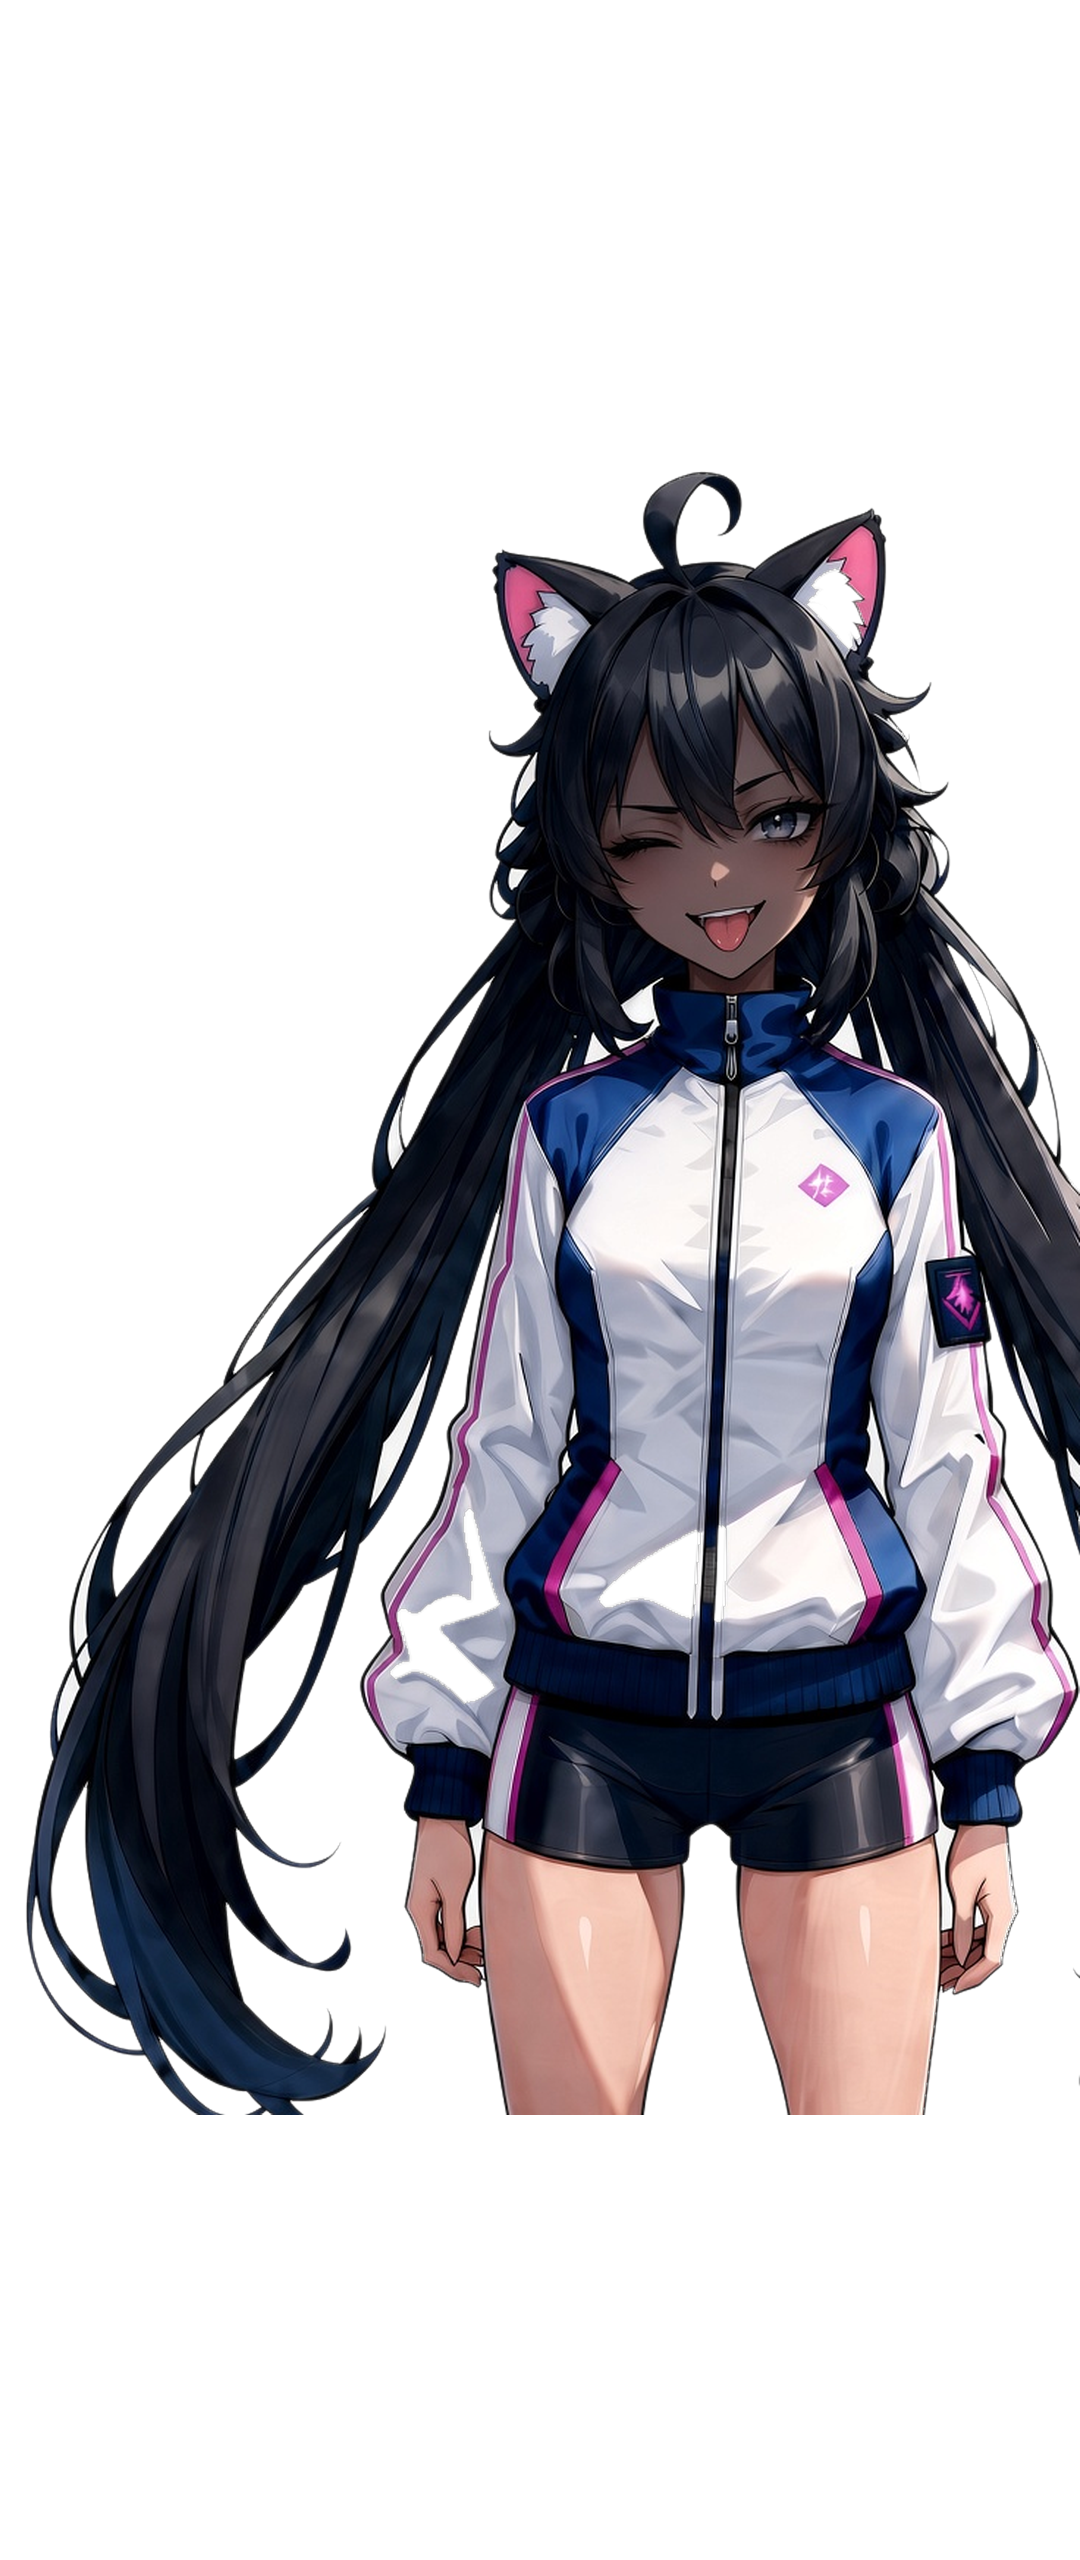
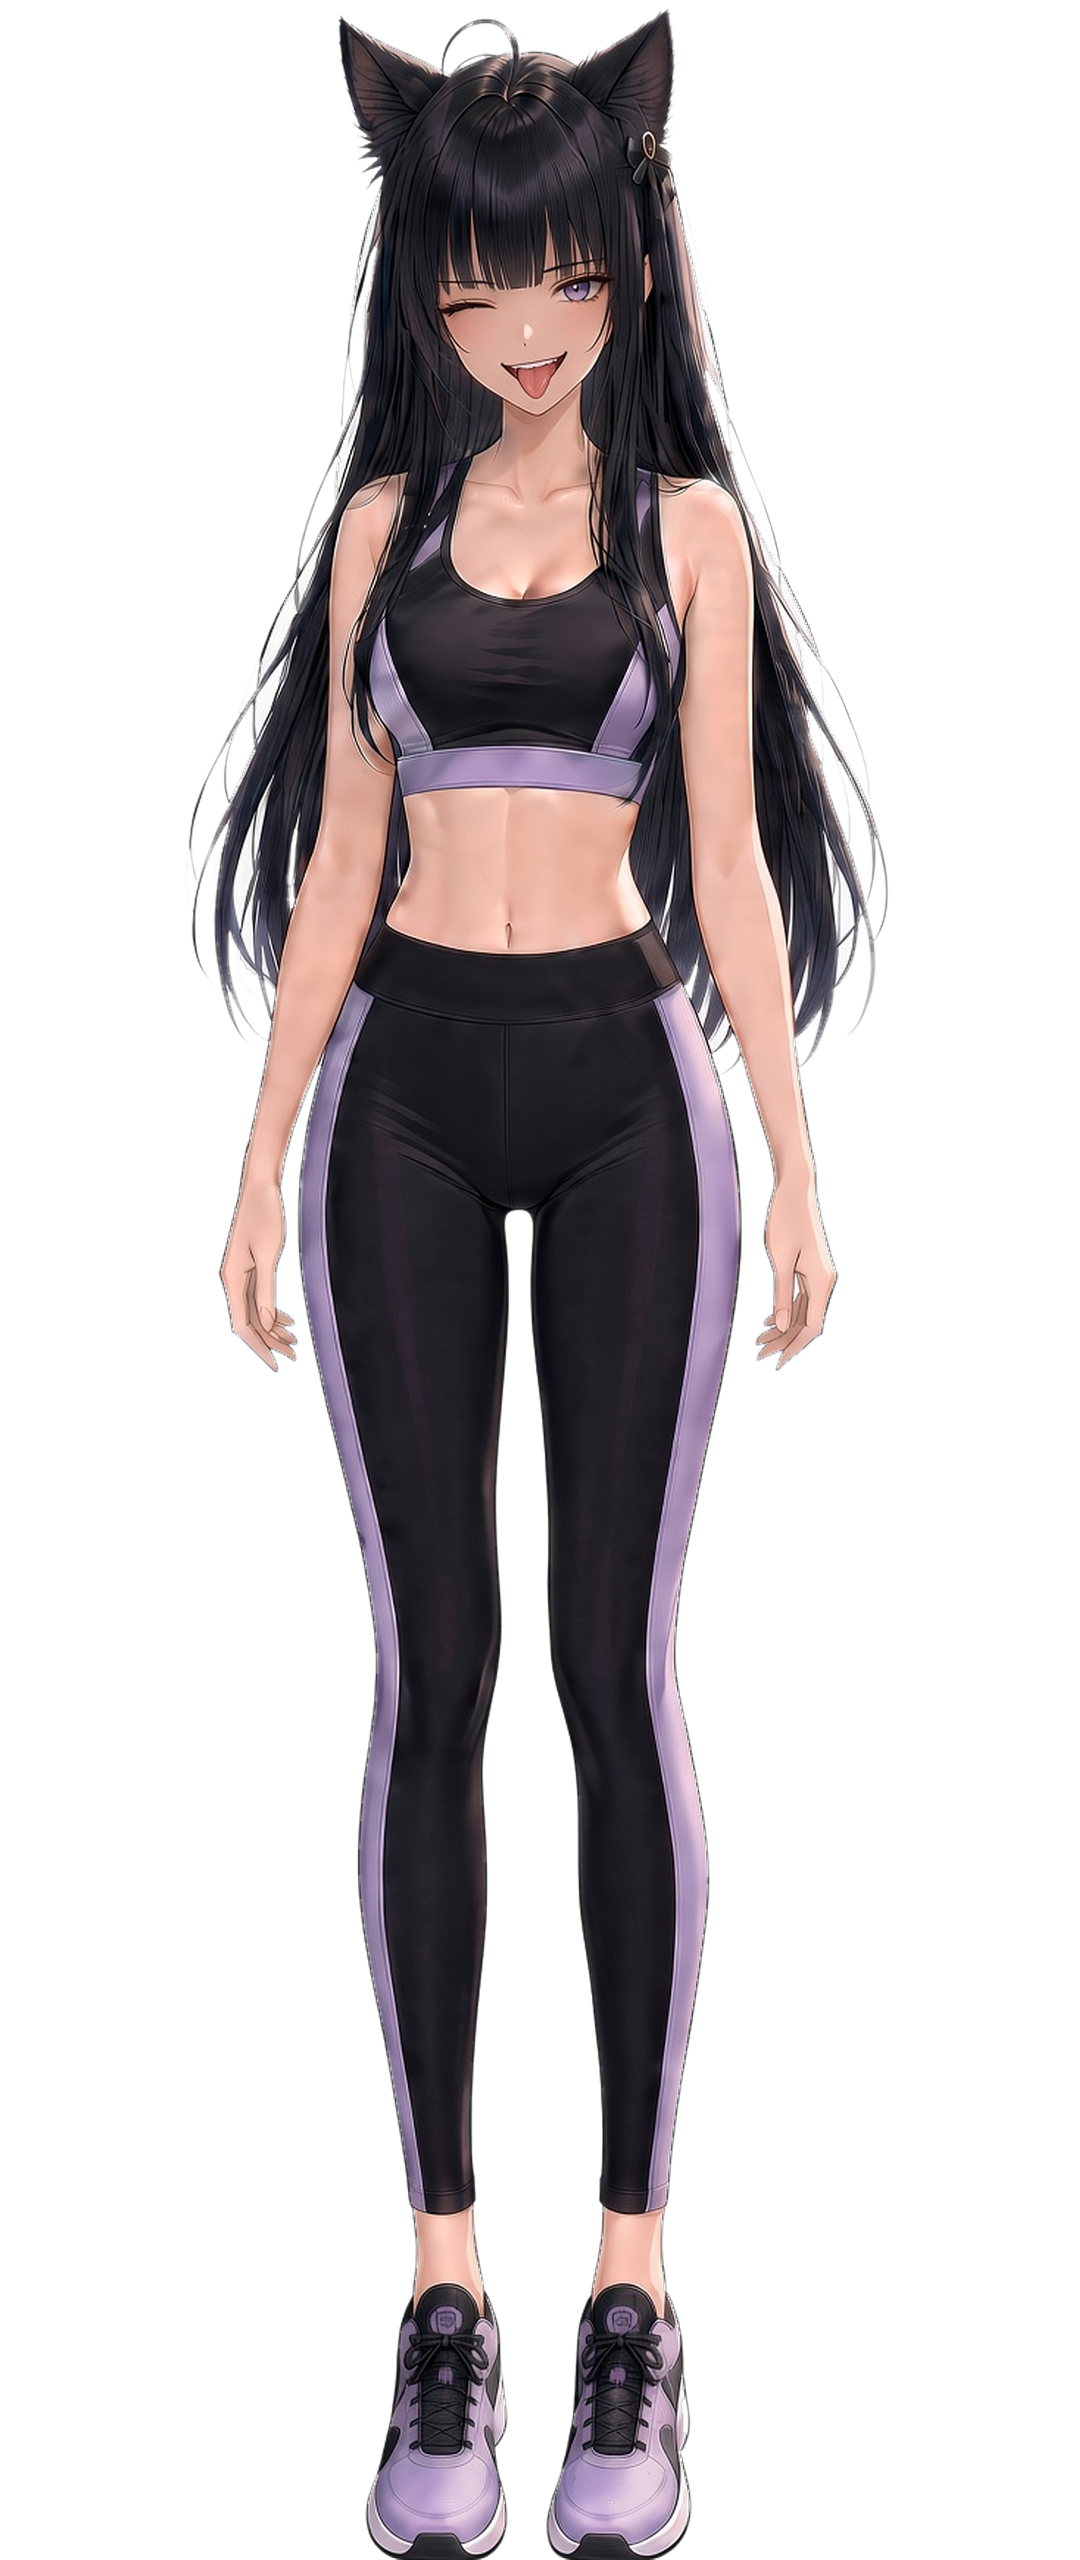
v4.3.12: VN large standing scale, gemini full redesign + menhera outfit SCG/ECG, routine tab header fix

diff --git a/kotonoha_engine.js b/kotonoha_engine.js
@@ -1343,16 +1343,16 @@ function renderKotonohaView() {
         <!-- Full Illustration Cinematic Stage: Click anywhere to advance -->
         <div class="relative w-full min-h-[500px] sm:min-h-[560px] flex flex-col justify-between bg-[#0e0a0c] cursor-pointer overflow-hidden" onclick="stepKotonohaStory(1)">
           
-          <!-- Visual Presentation: True Transparent SCG + BG vs Clean Full ECG -->
-          <div class="relative w-full h-72 sm:h-84 overflow-hidden bg-[#0c080a] flex items-center justify-center">
+          <!-- Visual Presentation: True Transparent SCG (Commercial VN large standing) vs Clean Full ECG -->
+          <div class="relative w-full h-[340px] sm:h-[400px] overflow-hidden bg-[#0c080a] flex items-end justify-center">
             ${visuals.isScg ? `
               <!-- [TRUE SCG + BG MODE] Pure Background Layer (No Characters) -->
               <img src="${visuals.bgUrl}" onerror="this.style.display='none'" class="absolute inset-0 w-full h-full object-cover filter brightness-[0.85] contrast-[1.02] pointer-events-none transition-all duration-500">
               <div class="absolute inset-0 bg-gradient-to-t from-[#141013] via-transparent to-black/25 pointer-events-none"></div>
 
-              <!-- Pure Standing Character Sprite (Alpha Transparent PNG) with Cross-fade transition -->
-              <div class="relative z-10 h-full flex items-end justify-center pointer-events-none">
-                <img src="${visuals.scgUrl}" onerror="this.onerror=null;this.src='${visuals.ecgFallback}'" class="max-h-[96%] max-w-[85%] object-contain object-bottom drop-shadow-[0_12px_28px_rgba(0,0,0,0.85)] transition-all duration-200">
+              <!-- Pure Standing Character Sprite (Alpha Transparent PNG) — scaled to ~135% for commercial VN presence -->
+              <div class="relative z-10 h-full flex items-end justify-center pointer-events-none w-full">
+                <img src="${visuals.scgUrl}" onerror="this.onerror=null;this.src='${visuals.ecgFallback}'" class="relative h-[135%] w-auto max-w-none object-contain object-bottom drop-shadow-[0_12px_28px_rgba(0,0,0,0.85)] transition-all duration-200">
               </div>
             ` : `
               <!-- [CLEAN FULL ECG MODE] Cinematic Ambient Blur + Center Illustration (Never Cut Off) -->

diff --git a/index.html b/index.html
@@ -737,10 +737,10 @@
       <!-- 5. 🏋 헬스장 풀코스 체크 (상체2 + 하체1 + 캡틴스 체어 레그레이즈 + 크런치) -->
       <!-- 4. Gym Full-Course Routine (보통 20회 x 4세트 / 레그레이즈 50회 1세트 / 크런치 50회 2세트) -->
       <div class="game-card p-3.5 space-y-3 border-l-4 border-l-sky-500">
-        <div class="flex items-center justify-between pb-2 border-b border-slate-200/80 dark:border-slate-700/60">
-          <div class="flex items-center gap-1.5">
-            <span class="text-base">🏋</span>
-            <div>
+        <div class="flex flex-wrap items-start justify-between gap-x-2 gap-y-2 pb-2 border-b border-slate-200/80 dark:border-slate-700/60">
+          <div class="flex items-center gap-1.5 min-w-[170px] flex-1">
+            <span class="text-base shrink-0">🏋</span>
+            <div class="min-w-0">
               <span class="text-xs font-black text-slate-800 dark:text-slate-100">헬스장 루틴 & 세트 기록</span>
               <span class="text-[9px] text-sky-500 font-bold block">기본 20회×4세트 · 레그레이즈 50회×1세트 · 크런치 50회×2세트</span>
             </div>
@@ -8123,7 +8123,7 @@ ${err.message}
 
       <div class="p-2.5 rounded-xl bg-[#22181d] border border-[#3b272f] text-[11px] text-[#e0cfca] space-y-1">
         <div class="flex items-center justify-between font-bold text-[#f29aa8]">
-          <span>현재 앱 버전: v4.3.11 (言の葉茶屋)</span>
+          <span>현재 앱 버전: v4.3.12 (言の葉茶屋)</span>
           <span id="updateReminderDayBadge" class="text-[10px] text-[#b89d97]">매주 수요일</span>
         </div>
         <div class="text-[10px] text-[#9e847e]">아래 버튼을 눌러 요청문을 복사한 뒤, 안티그라에 바로 붙여넣기 하시면 즉시 업데이트가 진행됩니다.</div>

diff --git a/sw.js b/sw.js
@@ -1,5 +1,5 @@
-// Gemini Fit Progressive Web App (PWA) Service Worker v4.3.11
-const CACHE_NAME = 'geminifit-pwa-v4.3.11';
+// Gemini Fit Progressive Web App (PWA) Service Worker v4.3.12
+const CACHE_NAME = 'geminifit-pwa-v4.3.12';
 
 self.addEventListener('install', (e) => {
   self.skipWaiting();

diff --git a/generate_assets_v4311.py b/generate_assets_v4311.py
@@ -43,12 +43,25 @@ STYLE = ("anime visual novel gal-game art style, soft painterly shading, "
 
 CHARACTERS = {
     "gemini": {
-        "desc": ("a beautiful young woman with long black hair and cute cat ears, "
-                 "calm dignified Kyoto tea-house master personality, wearing an elegant "
-                 "white and navy sports jacket with pink accents, shorts and athletic shoes"),
+        "desc": ("a beautiful young woman with long straight black hair with blunt straight-cut bangs (hime cut), "
+                 "black cat ears with small black ribbon hairpin, violet purple eyes, elegant tall figure, "
+                 "wearing black sports bra training top with lavender-purple accents and high-waist black leggings "
+                 "with lavender side stripes, full-body standing pose head to shoes, feet and ankles visible, "
+                 "standing upright facing viewer, arms relaxed at sides, plain pure white background, no scenery, no room"),
         "refs": [
             ROOT / "image" / "03 gemini" / "avatar_gemini.png",
             ROOT / "image" / "03 gemini" / "gemini_01_main.png",
+        ],
+    },
+    "gemini_menhera": {
+        "desc": ("a beautiful young woman with long straight black hair with blunt straight-cut bangs (hime cut), "
+                 "black cat ears with small black ribbon hairpin, violet purple eyes with restless tired gaze, "
+                 "wearing menhera fashion: oversized black hoodie dress with hanging straps and silver cross chains, "
+                 "layered black lace and torn stockings, bandage on one knee, black platform boots, small bandage "
+                 "on cheek, full-body standing pose head to shoes, feet and ankles visible, standing upright facing "
+                 "viewer, arms relaxed at sides, plain dark gray background, no scenery, no room"),
+        "refs": [
+            ROOT / "image" / "03 gemini" / "avatar_gemini.png",
         ],
     },
     "kotone": {
@@ -230,6 +243,18 @@ def gen_one(driver, prompt: str, out_path: Path, refs: list[Path], timeout: int,
             return False
 
 
+ECGS = [
+    ("gemini_46_menhera_night", "03 gemini",
+     "same anime girl with long straight black hair with blunt straight-cut bangs and black cat ears, "
+     "menhera fashion: oversized black hoodie dress with straps and cross chains, bandaged knee, "
+     "in a dark messy bedroom at night lit only by phone screen glow, dark cinematic event CG, vertical portrait"),
+    ("gemini_47_menhera_rooftop", "03 gemini",
+     "same anime girl with long straight black hair with blunt straight-cut bangs and black cat ears, "
+     "menhera fashion: oversized black hoodie dress with straps and cross chains, bandaged knee, "
+     "standing on city rooftop at midnight under neon signs and cloudy sky, dark cinematic event CG, vertical portrait"),
+]
+
+
 def build_jobs(phase: str):
     jobs = []  # (label, prompt, out_path, refs, kind)
     if phase in ("bg", "all"):
@@ -253,12 +278,17 @@ def build_jobs(phase: str):
                           f"{info['desc']}, {STYLE}")
                 jobs.append((f"{char}/{expr}", prompt, WORK / char / f"{expr}_raw.png",
                              [WORK / char / "base_raw.png"], "9:16 portrait"))
+    if phase in ("ecg",):
+        for name, folder, desc in ECGS:
+            prompt = (f"{STYLE}, anime visual novel event CG illustration, {desc}, detailed background")
+            jobs.append((name, prompt, ROOT / "image" / folder / f"{name}.png",
+                         [ROOT / "image" / "03 gemini" / "avatar_gemini.png"], "9:16 portrait"))
     return jobs
 
 
 def main():
     ap = argparse.ArgumentParser()
-    ap.add_argument("--phase", choices=["bg", "base", "expr", "all"], default="all")
+    ap.add_argument("--phase", choices=["bg", "base", "expr", "ecg", "all"], default="all")
     ap.add_argument("--timeout", type=int, default=180)
     args = ap.parse_args()
 

diff --git a/make_scg_transparent.py b/make_scg_transparent.py
@@ -29,7 +29,14 @@ WORK_DIR = os.path.join(BASE_DIR, "image", "_scg_work")
 OUT_DIR = os.path.join(BASE_DIR, "image", "scg")
 
 EXPRESSIONS = ["idle", "smile", "sad", "angry", "shy", "shock", "dark", "joke"]
-CHARS = ["gemini", "kotone", "mio"]
+# char folder under _scg_work -> (output subdir under image/scg, file-name parts)
+OUTFIT_TARGETS = {
+    "gemini": ("gemini", "gemini_default_"),
+    "gemini_menhera": ("gemini", "gemini_menhera_"),
+    "kotone": ("kotone", "kotone_default_"),
+    "mio": ("mio", "mio_default_"),
+}
+CHARS = ["gemini", "gemini_menhera", "kotone", "mio"]
 
 # canvas target per VN_ASSET_SPEC.md is ~1080x2560 portrait (ratio 1:2.37).
 # Engine renders object-contain; we keep a tall canvas with identical layout.
@@ -63,7 +70,8 @@ def trim_box_from_alpha(alpha: np.ndarray, pad: int = 16):
 
 def process_character(char: str, only_expr: str | None = None):
     work = os.path.join(WORK_DIR, char)
-    out = os.path.join(OUT_DIR, char)
+    out_subdir, prefix = OUTFIT_TARGETS.get(char, (char, f"{char}_default_"))
+    out = os.path.join(OUT_DIR, out_subdir)
     os.makedirs(out, exist_ok=True)
 
     # 1) chroma key every available expression, keep in memory
@@ -112,7 +120,7 @@ def process_character(char: str, only_expr: str | None = None):
         resized = cropped.resize((tw, th), Image.LANCZOS)
         canvas = Image.new("RGBA", (CANVAS_W, CANVAS_H), (0, 0, 0, 0))
         canvas.paste(resized, (ox, oy), resized)
-        dst = os.path.join(out, f"{char}_default_{expr}.png")
+        dst = os.path.join(out, f"{prefix}{expr}.png")
         canvas.save(dst)
         alpha_pct = 100 * (np.asarray(resized)[..., 3] > 10).mean()
         print(f"  [ok] {dst} ({tw}x{th} on {CANVAS_W}x{CANVAS_H}, alpha={alpha_pct:.1f}%)")

diff --git a/annotate_kotonoha_data.py b/annotate_kotonoha_data.py
@@ -84,6 +84,9 @@ def main():
             if not args.dry_run:
                 step["expr"] = expr
                 step["bg"] = bg
+                # Gemini DARK scenes use the menhera outfit variant (VN_ASSET_SPEC outfit param)
+                if step.get("speaker") == "gemini" and expr == "dark":
+                    step["outfit"] = "menhera"
 
     print(f"annotated steps: {annotated}")
     if args.dry_run:
